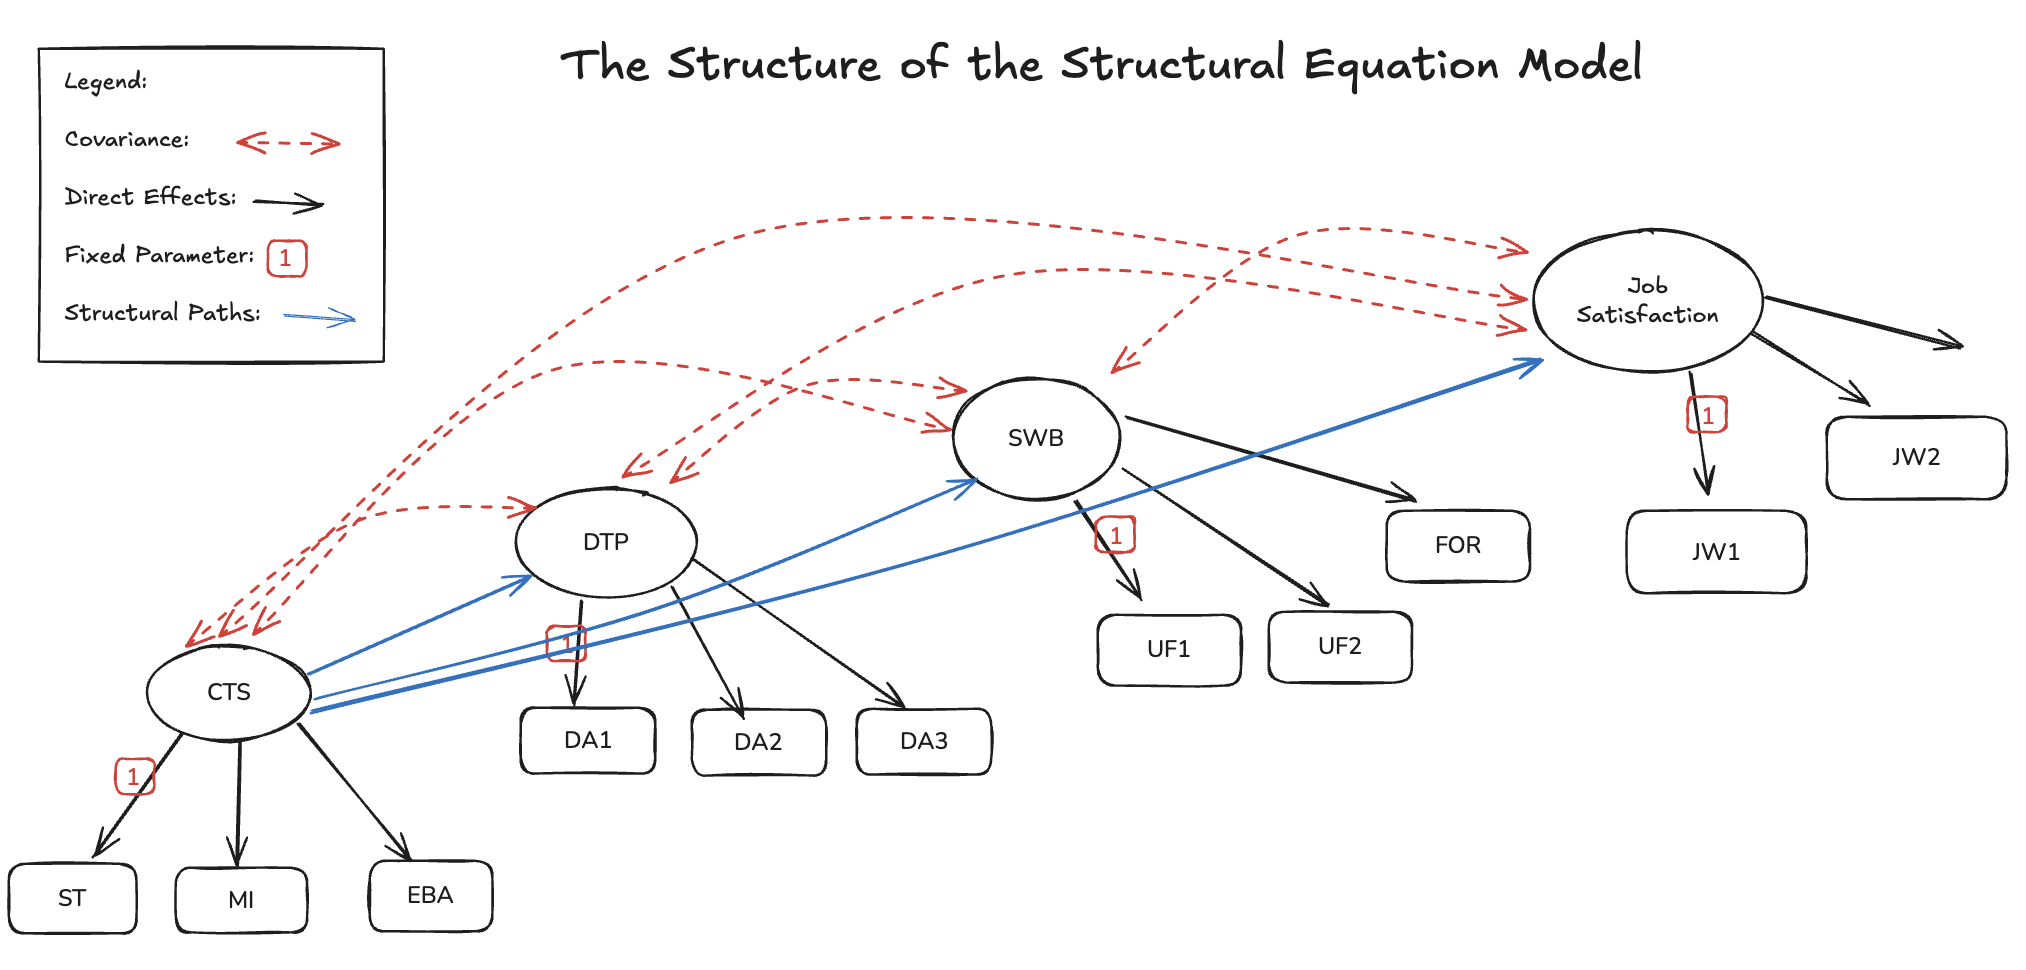
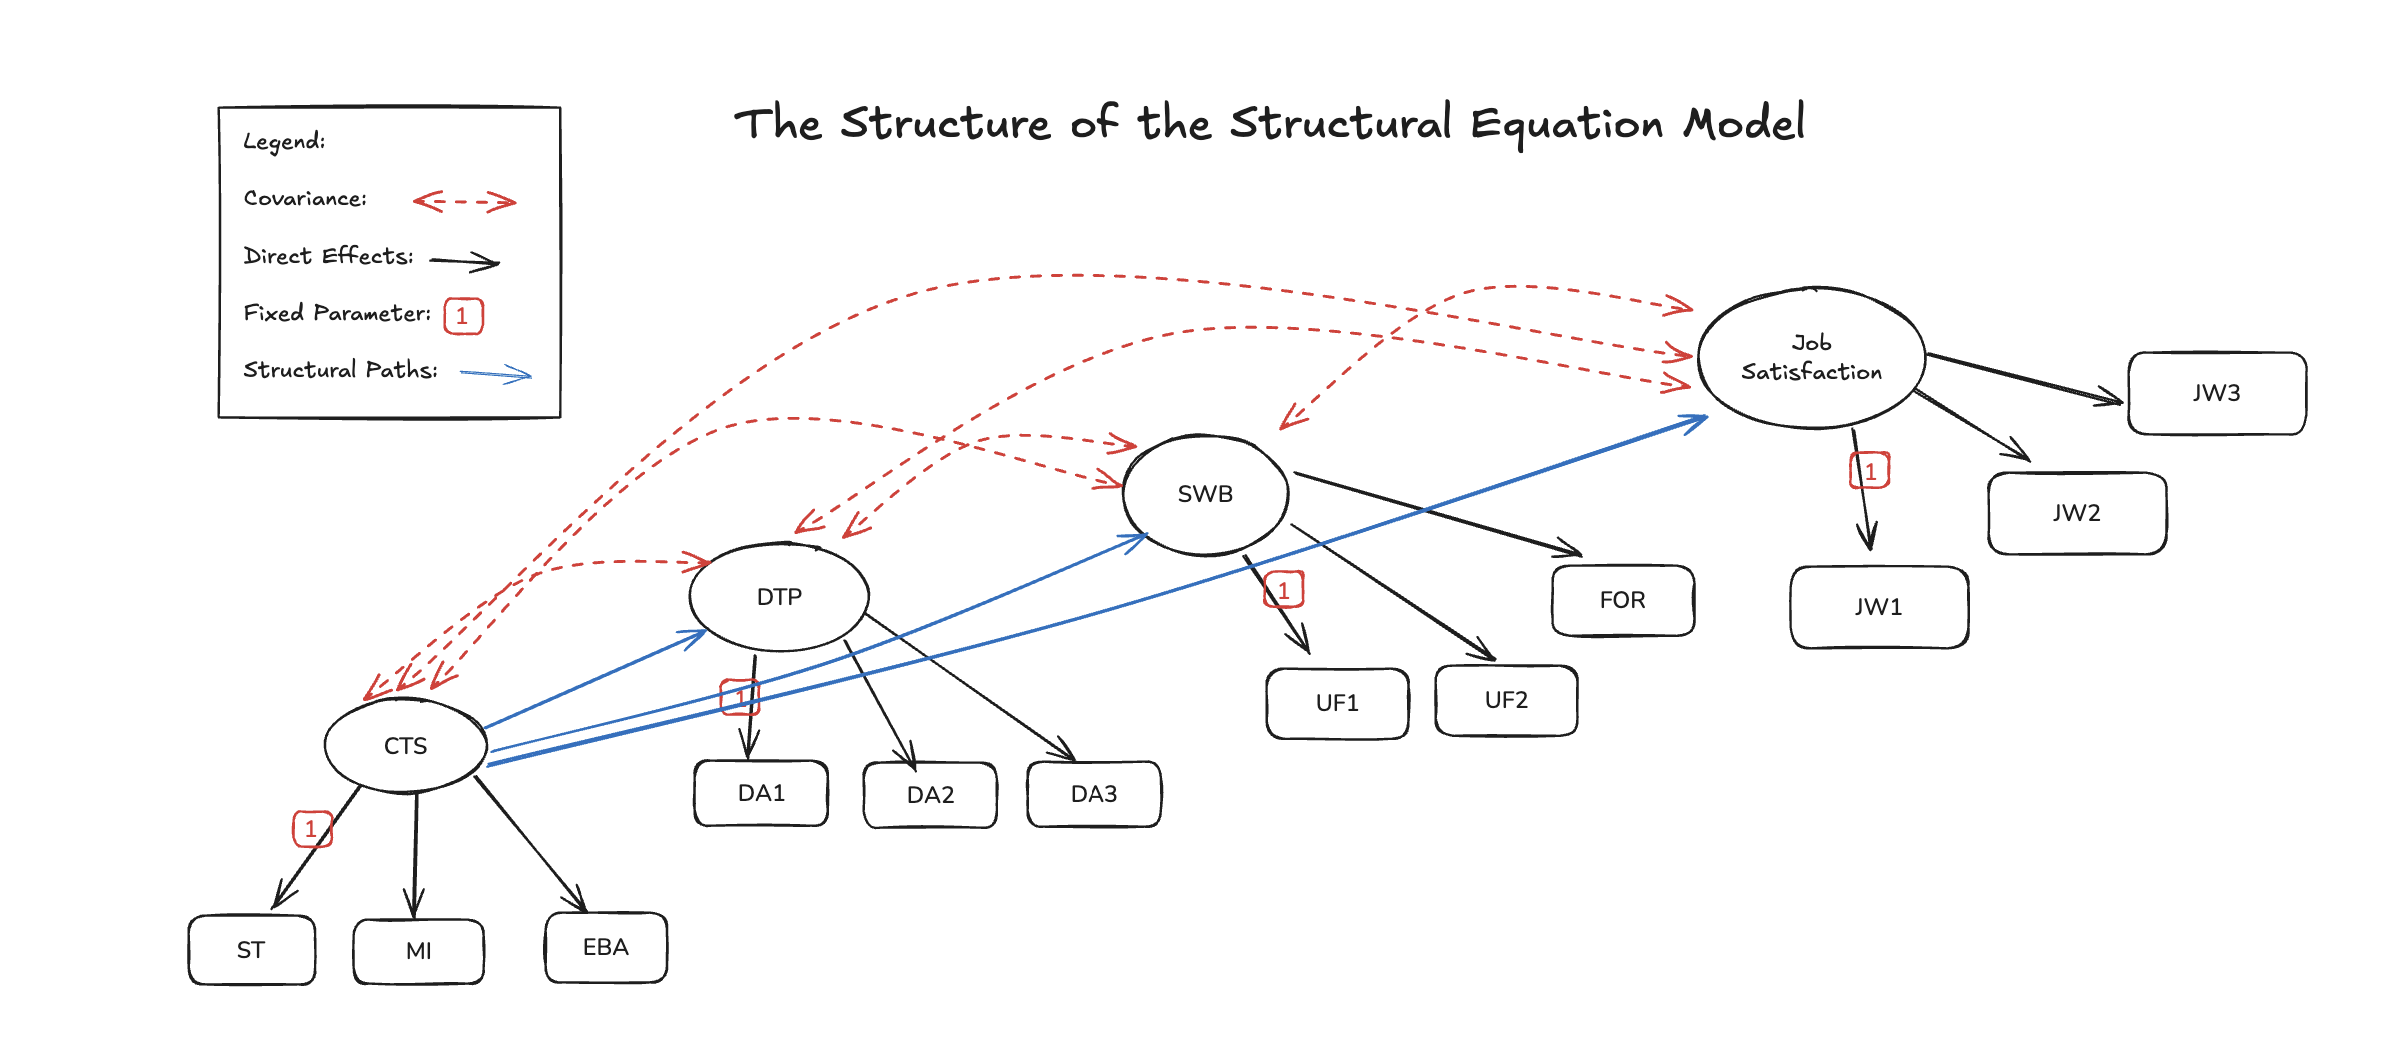
update images and positioning

diff --git a/docs/talks/pycon_ireland_2025/bayesian_workflow_sem.html b/docs/talks/pycon_ireland_2025/bayesian_workflow_sem.html
@@ -1,6 +1,6 @@
 <!DOCTYPE html>
 <html lang="en"><head>
-<script src="../../site_libs/clipboard/clipboard.min.js"></script>
+<script src="https://cdnjs.cloudflare.com/ajax/libs/jquery/3.5.1/jquery.min.js" integrity="sha512-bLT0Qm9VnAYZDflyKcBaQ2gg0hSYNQrJ8RilYldYQ1FxQYoCLtUjuuRuZo+fjqhx/qtq/1itJ0C2ejDxltZVFg==" crossorigin="anonymous"></script><script src="../../site_libs/clipboard/clipboard.min.js"></script>
 <script src="../../site_libs/quarto-html/tabby.min.js"></script>
 <script src="../../site_libs/quarto-html/popper.min.js"></script>
 <script src="../../site_libs/quarto-html/tippy.umd.min.js"></script>
@@ -187,6 +187,9 @@
       margin-right: 0; 
     }
   </style>
+  <script src="https://cdnjs.cloudflare.com/ajax/libs/require.js/2.3.6/require.min.js" integrity="sha512-c3Nl8+7g4LMSTdrm621y7kf9v3SDPnhxLNhcjFJbKECVnmZHTdo+IRO05sNLTH/D3vA6u1X32ehoLC7WFVdheg==" crossorigin="anonymous"></script>
+  
+  <script type="application/javascript">define('jquery', [],function() {return window.jQuery;})</script>
 </head>
 <body class="quarto-light">
   <div class="reveal">
@@ -258,7 +261,6 @@ Nathaniel Forde
 <h2>Agenda</h2>
 <ul>
 <li><strong>The Idea of a Workflow</strong>: Craft versus Checklist</li>
-<li><strong>Structural Equation Models</strong>: Expressive Candidate Structure(s)</li>
 <li><strong>Bayesian Workflow with SEMs</strong>:
 <ul>
 <li>Confirmatory Factor Structures</li>
@@ -382,34 +384,6 @@ Nathaniel Forde
 <h1>Structural Equation Models</h1>
 <p>Richly Parameterised Regressions with Expressive Encodings of Measurement Error and Latent Constructs</p>
 </section>
-<section id="the-confirmatory-factor-structure" class="slide level2">
-<h2>The Confirmatory Factor Structure</h2>
-<p><img src="images/cfa_excalidraw.png" width="80%" height="80%"></p>
-</section>
-<section id="the-sem-regression" class="slide level2">
-<h2>The SEM Regression</h2>
-<p><img src="images/sem1_excalidraw.png" width="80%" height="80%"></p>
-</section>
-<section id="the-sem-regression-1" class="slide level2">
-<h2>The SEM Regression</h2>
-<h3 id="with-mediation-effects">with Mediation Effects</h3>
-<p><img src="images/sem2_excalidraw.png" width="90%" height="90%"></p>
-</section>
-<section id="the-sem-regression-2" class="slide level2">
-<h2>The SEM Regression</h2>
-<h3 id="with-staggered-mediation-effects">with Staggered Mediation Effects</h3>
-<p><img src="images/sem3_excalidraw.png" width="90%" height="90%"></p>
-</section>
-<section id="the-sem-regression-3" class="slide level2">
-<h2>The SEM Regression</h2>
-<h3 id="with-residuals-covariance-structures">with Residuals Covariance Structures</h3>
-<p><img src="images/final_sem_excalidraw.png" width="90%" height="90%"></p>
-</section>
-<section id="the-sem-regression-4" class="slide level2">
-<h2>The SEM Regression</h2>
-<h3 id="with-hierarchical-structure">with Hierarchical Structure</h3>
-<p><img src="images/hierarchical_excalidraw.png" width="90%" height="90%"></p>
-</section>
 <section id="the-sem-workflow" class="slide level2 smaller">
 <h2>The SEM workflow</h2>
 <ul>
@@ -434,6 +408,125 @@ Nathaniel Forde
 <li>Workflow = constant negotiation between parsimony and fidelity.</li>
 </ul></li>
 </ul>
+</section>
+<section id="job-satisfaction-data-1" class="slide level2">
+<h2>Job Satisfaction Data</h2>
+<div id="870b4b40" class="cell" data-execution_count="2">
+<div class="cell-output cell-output-display" data-execution_count="3">
+<style type="text/css">
+#T_24266_row0_col0, #T_24266_row0_col1, #T_24266_row0_col2, #T_24266_row1_col0, #T_24266_row1_col1, #T_24266_row1_col2, #T_24266_row2_col0, #T_24266_row2_col1, #T_24266_row2_col2, #T_24266_row3_col0, #T_24266_row3_col1, #T_24266_row3_col2, #T_24266_row4_col0, #T_24266_row4_col1, #T_24266_row4_col2 {
+  background-color: skyblue;
+}
+#T_24266_row0_col6, #T_24266_row0_col7, #T_24266_row0_col8, #T_24266_row1_col6, #T_24266_row1_col7, #T_24266_row1_col8, #T_24266_row2_col6, #T_24266_row2_col7, #T_24266_row2_col8, #T_24266_row3_col6, #T_24266_row3_col7, #T_24266_row3_col8, #T_24266_row4_col6, #T_24266_row4_col7, #T_24266_row4_col8 {
+  background-color: moccasin;
+}
+#T_24266_row0_col9, #T_24266_row0_col10, #T_24266_row0_col11, #T_24266_row1_col9, #T_24266_row1_col10, #T_24266_row1_col11, #T_24266_row2_col9, #T_24266_row2_col10, #T_24266_row2_col11, #T_24266_row3_col9, #T_24266_row3_col10, #T_24266_row3_col11, #T_24266_row4_col9, #T_24266_row4_col10, #T_24266_row4_col11 {
+  background-color: lightcoral;
+}
+</style>
+
+<table id="T_24266" class="caption-top" data-quarto-postprocess="true">
+<thead>
+<tr class="header">
+<th class="blank level0" data-quarto-table-cell-role="th">&nbsp;</th>
+<th id="T_24266_level0_col0" class="col_heading level0 col0" data-quarto-table-cell-role="th">JW1</th>
+<th id="T_24266_level0_col1" class="col_heading level0 col1" data-quarto-table-cell-role="th">JW2</th>
+<th id="T_24266_level0_col2" class="col_heading level0 col2" data-quarto-table-cell-role="th">JW3</th>
+<th id="T_24266_level0_col3" class="col_heading level0 col3" data-quarto-table-cell-role="th">UF1</th>
+<th id="T_24266_level0_col4" class="col_heading level0 col4" data-quarto-table-cell-role="th">UF2</th>
+<th id="T_24266_level0_col5" class="col_heading level0 col5" data-quarto-table-cell-role="th">FOR</th>
+<th id="T_24266_level0_col6" class="col_heading level0 col6" data-quarto-table-cell-role="th">DA1</th>
+<th id="T_24266_level0_col7" class="col_heading level0 col7" data-quarto-table-cell-role="th">DA2</th>
+<th id="T_24266_level0_col8" class="col_heading level0 col8" data-quarto-table-cell-role="th">DA3</th>
+<th id="T_24266_level0_col9" class="col_heading level0 col9" data-quarto-table-cell-role="th">EBA</th>
+<th id="T_24266_level0_col10" class="col_heading level0 col10" data-quarto-table-cell-role="th">ST</th>
+<th id="T_24266_level0_col11" class="col_heading level0 col11" data-quarto-table-cell-role="th">MI</th>
+</tr>
+</thead>
+<tbody>
+<tr class="odd">
+<td id="T_24266_level0_row0" class="row_heading level0 row0" data-quarto-table-cell-role="th">0</td>
+<td id="T_24266_row0_col0" class="data row0 col0">0.268235</td>
+<td id="T_24266_row0_col1" class="data row0 col1">1.454372</td>
+<td id="T_24266_row0_col2" class="data row0 col2">0.755390</td>
+<td id="T_24266_row0_col3" class="data row0 col3">0.924379</td>
+<td id="T_24266_row0_col4" class="data row0 col4">1.859543</td>
+<td id="T_24266_row0_col5" class="data row0 col5">0.459268</td>
+<td id="T_24266_row0_col6" class="data row0 col6">-0.345892</td>
+<td id="T_24266_row0_col7" class="data row0 col7">-0.560673</td>
+<td id="T_24266_row0_col8" class="data row0 col8">-0.764298</td>
+<td id="T_24266_row0_col9" class="data row0 col9">-1.635835</td>
+<td id="T_24266_row0_col10" class="data row0 col10">0.338378</td>
+<td id="T_24266_row0_col11" class="data row0 col11">-1.369332</td>
+</tr>
+<tr class="even">
+<td id="T_24266_level0_row1" class="row_heading level0 row1" data-quarto-table-cell-role="th">1</td>
+<td id="T_24266_row1_col0" class="data row1 col0">-0.245966</td>
+<td id="T_24266_row1_col1" class="data row1 col1">0.600433</td>
+<td id="T_24266_row1_col2" class="data row1 col2">-0.869576</td>
+<td id="T_24266_row1_col3" class="data row1 col3">-0.480932</td>
+<td id="T_24266_row1_col4" class="data row1 col4">-0.098568</td>
+<td id="T_24266_row1_col5" class="data row1 col5">-0.457499</td>
+<td id="T_24266_row1_col6" class="data row1 col6">0.241010</td>
+<td id="T_24266_row1_col7" class="data row1 col7">0.577147</td>
+<td id="T_24266_row1_col8" class="data row1 col8">0.101660</td>
+<td id="T_24266_row1_col9" class="data row1 col9">-0.208880</td>
+<td id="T_24266_row1_col10" class="data row1 col10">1.170604</td>
+<td id="T_24266_row1_col11" class="data row1 col11">0.013108</td>
+</tr>
+<tr class="odd">
+<td id="T_24266_level0_row2" class="row_heading level0 row2" data-quarto-table-cell-role="th">2</td>
+<td id="T_24266_row2_col0" class="data row2 col0">0.151719</td>
+<td id="T_24266_row2_col1" class="data row2 col1">1.210951</td>
+<td id="T_24266_row2_col2" class="data row2 col2">0.121421</td>
+<td id="T_24266_row2_col3" class="data row2 col3">0.900827</td>
+<td id="T_24266_row2_col4" class="data row2 col4">-0.003007</td>
+<td id="T_24266_row2_col5" class="data row2 col5">-0.074150</td>
+<td id="T_24266_row2_col6" class="data row2 col6">-0.044577</td>
+<td id="T_24266_row2_col7" class="data row2 col7">-0.008138</td>
+<td id="T_24266_row2_col8" class="data row2 col8">-0.066864</td>
+<td id="T_24266_row2_col9" class="data row2 col9">0.621385</td>
+<td id="T_24266_row2_col10" class="data row2 col10">0.789388</td>
+<td id="T_24266_row2_col11" class="data row2 col11">2.205311</td>
+</tr>
+<tr class="even">
+<td id="T_24266_level0_row3" class="row_heading level0 row3" data-quarto-table-cell-role="th">3</td>
+<td id="T_24266_row3_col0" class="data row3 col0">0.104780</td>
+<td id="T_24266_row3_col1" class="data row3 col1">-0.030989</td>
+<td id="T_24266_row3_col2" class="data row3 col2">0.611362</td>
+<td id="T_24266_row3_col3" class="data row3 col3">-0.786656</td>
+<td id="T_24266_row3_col4" class="data row3 col4">-0.639032</td>
+<td id="T_24266_row3_col5" class="data row3 col5">0.170958</td>
+<td id="T_24266_row3_col6" class="data row3 col6">0.443478</td>
+<td id="T_24266_row3_col7" class="data row3 col7">-0.177846</td>
+<td id="T_24266_row3_col8" class="data row3 col8">-0.916878</td>
+<td id="T_24266_row3_col9" class="data row3 col9">-0.472339</td>
+<td id="T_24266_row3_col10" class="data row3 col10">0.299819</td>
+<td id="T_24266_row3_col11" class="data row3 col11">-0.403575</td>
+</tr>
+<tr class="odd">
+<td id="T_24266_level0_row4" class="row_heading level0 row4" data-quarto-table-cell-role="th">4</td>
+<td id="T_24266_row4_col0" class="data row4 col0">0.975207</td>
+<td id="T_24266_row4_col1" class="data row4 col1">0.294680</td>
+<td id="T_24266_row4_col2" class="data row4 col2">0.164027</td>
+<td id="T_24266_row4_col3" class="data row4 col3">0.675646</td>
+<td id="T_24266_row4_col4" class="data row4 col4">-0.619514</td>
+<td id="T_24266_row4_col5" class="data row4 col5">-1.065048</td>
+<td id="T_24266_row4_col6" class="data row4 col6">-0.367416</td>
+<td id="T_24266_row4_col7" class="data row4 col7">0.343254</td>
+<td id="T_24266_row4_col8" class="data row4 col8">-0.243912</td>
+<td id="T_24266_row4_col9" class="data row4 col9">0.202133</td>
+<td id="T_24266_row4_col10" class="data row4 col10">-1.274813</td>
+<td id="T_24266_row4_col11" class="data row4 col11">1.517694</td>
+</tr>
+</tbody>
+</table>
+</div>
+</div>
+</section>
+<section id="the-confirmatory-factor-structure" class="slide level2">
+<h2>The Confirmatory Factor Structure</h2>
+<p><img src="images/cfa_excalidraw.png" width="80%" height="80%"></p>
 </section>
 <section id="bayesian-workflow-with-sems" class="slide level2">
 <h2>Bayesian Workflow with SEMs</h2>
@@ -484,6 +577,25 @@ Nathaniel Forde
 <li>High Satisfaction ~~ High Well Being</li>
 </ul>
 </div></div>
+</section>
+<section id="the-sem-regression" class="slide level2">
+<h2>The SEM Regression</h2>
+<p><img src="images/sem1_excalidraw.png" width="80%" height="80%"></p>
+</section>
+<section id="the-sem-regression-1" class="slide level2">
+<h2>The SEM Regression</h2>
+<h3 id="with-mediation-effects">with Mediation Effects</h3>
+<p><img src="images/sem2_excalidraw.png" width="90%" height="90%"></p>
+</section>
+<section id="the-sem-regression-2" class="slide level2">
+<h2>The SEM Regression</h2>
+<h3 id="with-staggered-mediation-effects">with Staggered Mediation Effects</h3>
+<p><img src="images/sem3_excalidraw.png" width="90%" height="90%"></p>
+</section>
+<section id="the-sem-regression-3" class="slide level2">
+<h2>The SEM Regression</h2>
+<h3 id="with-residuals-covariance-structures">with Residuals Covariance Structures</h3>
+<p><img src="images/final_sem_excalidraw.png" width="90%" height="90%"></p>
 </section>
 <section id="bayesian-workflow-with-sems-2" class="slide level2">
 <h2>Bayesian Workflow with SEMs</h2>
@@ -617,9 +729,14 @@ Nathaniel Forde
 <h2>Bayesian Workflow with SEMs</h2>
 <h3 id="comparing-measures-of-global-fit">Comparing Measures of Global Fit</h3>
 
+<img data-src="images/comparison_table.png" class="r-stretch"></section>
+<section id="the-sem-regression-4" class="slide level2">
+<h2>The SEM Regression</h2>
+<h3 id="with-hierarchical-structure">with Hierarchical Structure</h3>
+<p><img src="images/hierarchical_excalidraw.png" width="90%" height="90%"></p>
 
 
-<img data-src="images/comparison_table.png" class="r-stretch"></section></section>
+</section></section>
     </div>
   <div class="quarto-auto-generated-content" style="display: none;">
 <p><img src="images/dublinSkyline.png" class="slide-logo"></p>

diff --git a/docs/talks.html b/docs/talks.html
@@ -251,7 +251,7 @@ window.Quarto = {
 </a>
 </div>
 </div>
-<div class="quarto-post image-right" data-index="1" data-categories="YmF5ZXNpYW4lMkNkaXNjcmV0ZSUyMGNob2ljZQ==" data-listing-date-sort="1763251200000" data-listing-file-modified-sort="1758748892372" data-listing-date-modified-sort="NaN" data-listing-reading-time-sort="7" data-listing-word-count-sort="1379">
+<div class="quarto-post image-right" data-index="1" data-categories="YmF5ZXNpYW4lMkNkaXNjcmV0ZSUyMGNob2ljZQ==" data-listing-date-sort="1763251200000" data-listing-file-modified-sort="1758784336358" data-listing-date-modified-sort="NaN" data-listing-reading-time-sort="10" data-listing-word-count-sort="1826">
 <div class="thumbnail">
 <p><a href="./talks/pycon_ireland_2025/bayesian_workflow_sem.html" class="no-external"></a></p><a href="./talks/pycon_ireland_2025/bayesian_workflow_sem.html" class="no-external">
 <p><img loading="lazy" src="./talks/pycon_ireland_2025/images/dublinSkyline.png" class="thumbnail-image"></p>
@@ -282,7 +282,7 @@ discrete choice
 Nov 16, 2025
 </div>
 <div class="listing-reading-time">
-7 min
+10 min
 </div>
 </a>
 </div>
